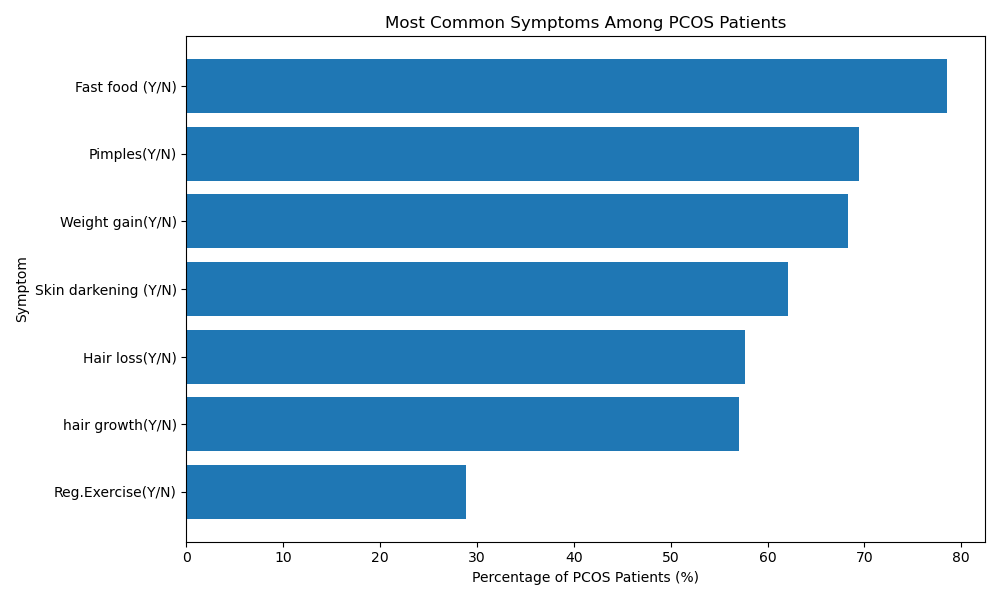
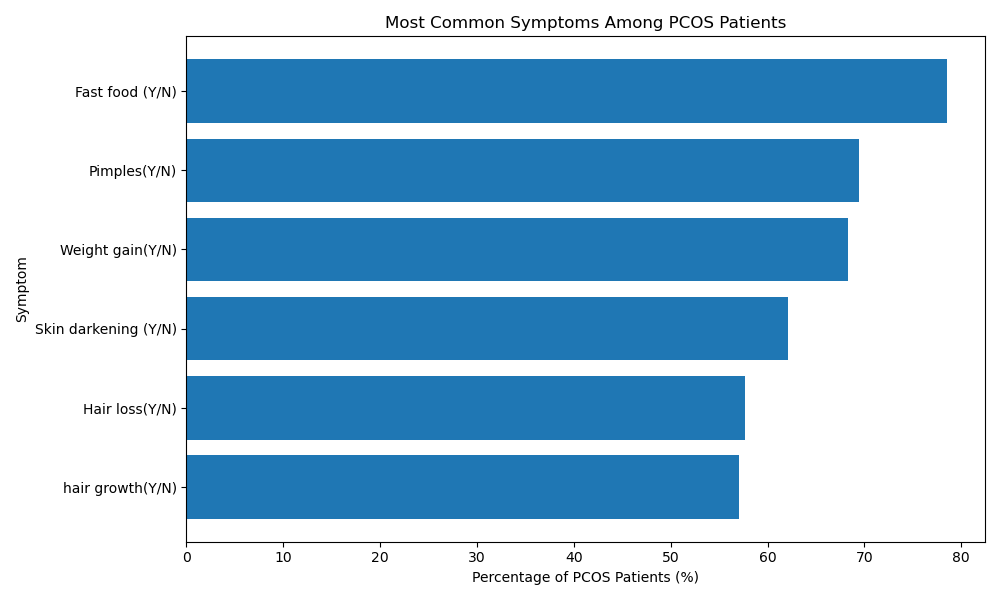
update

diff --git a/src/kaggle_pcosdata.py b/src/kaggle_pcosdata.py
@@ -10,7 +10,7 @@ def load_pcos_data(file_path="data/PCOS_data.csv"):
         "Cycle(R/I)",
         "Cycle length(days)",
         "Weight gain(Y/N)",
-        "hair growth(Y/N)",
+        "Hair growth(Y/N)",
         "Skin darkening (Y/N)",
         "Hair loss(Y/N)",
         "Pimples(Y/N)",
@@ -53,7 +53,7 @@ def calculate_symptom_percentages(df):
 def plot_symptom_prevalence(result_df):
     plt.figure(figsize=(10, 6))
 
-    plt.barh(result_df["Symptom"], result_df["Percentage"])
+    plt.barh(result_df["Symptom"], result_df["Percentage"], color="lavender")
     plt.xlabel("Percentage of PCOS Patients (%)")
     plt.ylabel("Symptom")
     plt.title("Most Common Symptoms Among PCOS Patients")

diff --git a/src/reddit_api.py b/src/reddit_api.py
@@ -111,7 +111,7 @@ def count_reddit_symptoms(posts):
 
 def plot_reddit_symptoms(result_df):
     plt.figure(figsize=(10, 6))
-    plt.barh(result_df["Symptom"], result_df["Count"])
+    plt.barh(result_df["Symptom"], result_df["Count"], color="lavender")
     plt.xlabel("Number of Reddit Posts Mentioning Symptom")
     plt.ylabel("Symptom")
     plt.title("Most Common Symptoms Mentioned in r/PCOS Posts")
